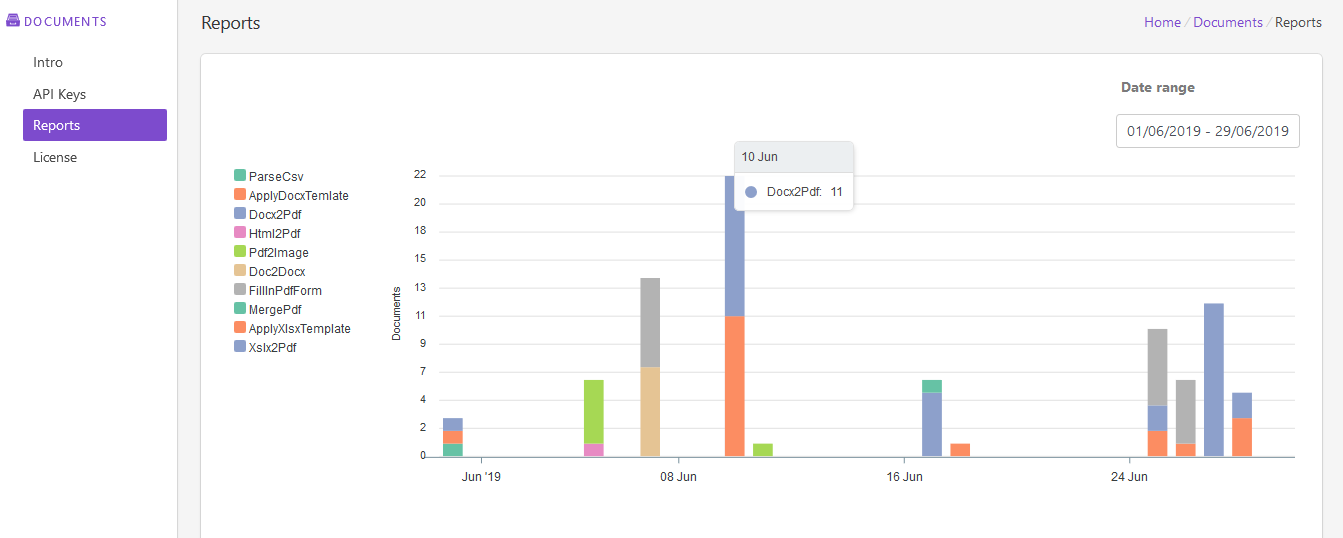
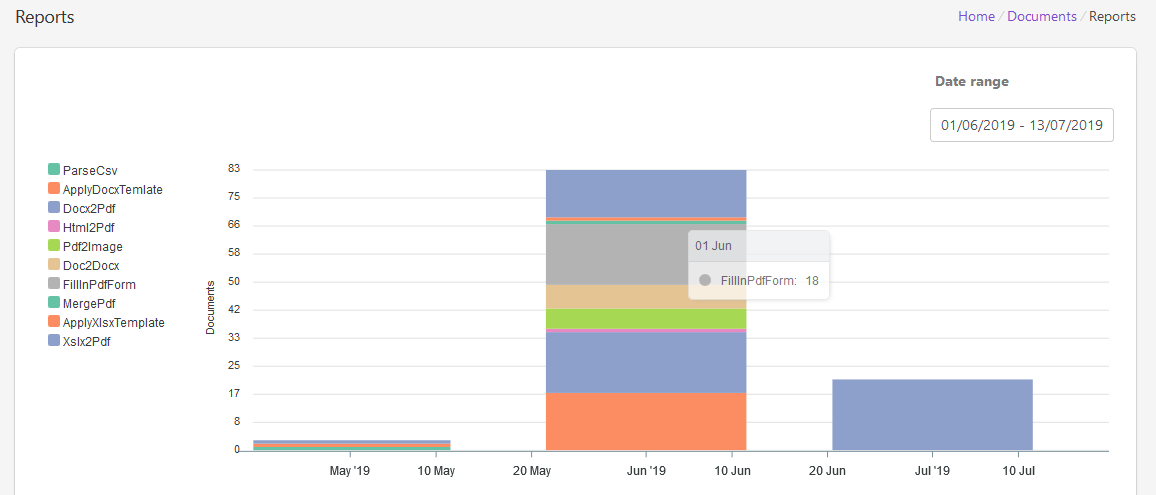
corrected Reports page

diff --git a/source/user-guide/reports.rst b/source/user-guide/reports.rst
@@ -2,7 +2,13 @@ Reports
 =========================
 
 You can find usage statistic on the Reports page. It allows selecting specific interval or a single day.
+For example, to find out what Documents actions were used from June 01, 2019 until July 13, 2019 you can select the range in the calendar
+
+.. image:: ../_static/img/general/documents-reports-calendar.png
+   :alt: Documents reports
+
 Reports show statistic for all Documents actions by default but you can disable some actions if it's needed.
+To disable an action just select it in the ctions list.
 
 .. image:: ../_static/img/general/documents-reports.png
    :alt: Documents reports
